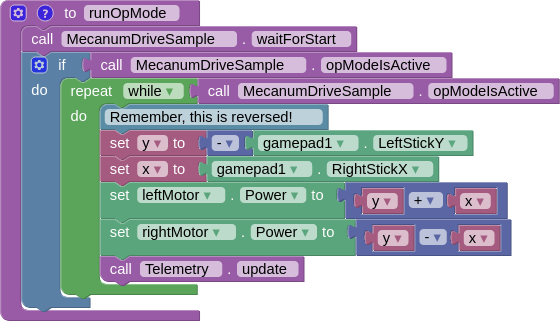
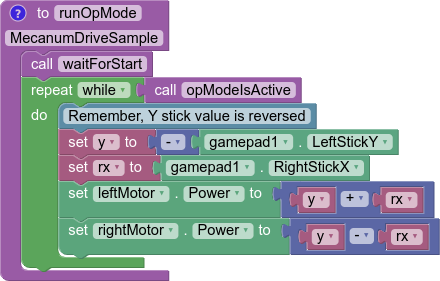
Clean up 2 motor drive example to use "rx".
Since all of the remaining code examples use "rx" (right stick x)
as the variable name for in-place turns, do that here also.

diff --git a/source/docs/software/tutorials/mecanum-drive.rst b/source/docs/software/tutorials/mecanum-drive.rst
@@ -42,7 +42,7 @@ Before thinking about mecanum, envision a scenario where you have a 2 motor tank
 
       .. code-block::
 
-         double y = -gamepad1.left_stick_y; // Remember, this is reversed!
+         double y = -gamepad1.left_stick_y; // Remember, Y stick is reversed!
 
          leftMotor.setPower(y);
          rightMotor.setPower(y);
@@ -63,11 +63,11 @@ Although at first adding rotation might seem like a difficult task, it’s actua
 
       .. code-block::
 
-         double y = -gamepad1.left_stick_y; // Remember, this is reversed!
-         double x = gamepad1.right_stick_x;
+         double y = -gamepad1.left_stick_y; // Remember, Y stick is reversed!
+         double rx = gamepad1.right_stick_x;
 
-         leftMotor.setPower(y + x);
-         rightMotor.setPower(y - x);
+         leftMotor.setPower(y + rx);
+         rightMotor.setPower(y - rx);
 
    .. tab-item:: Blocks
       :sync: blocks
